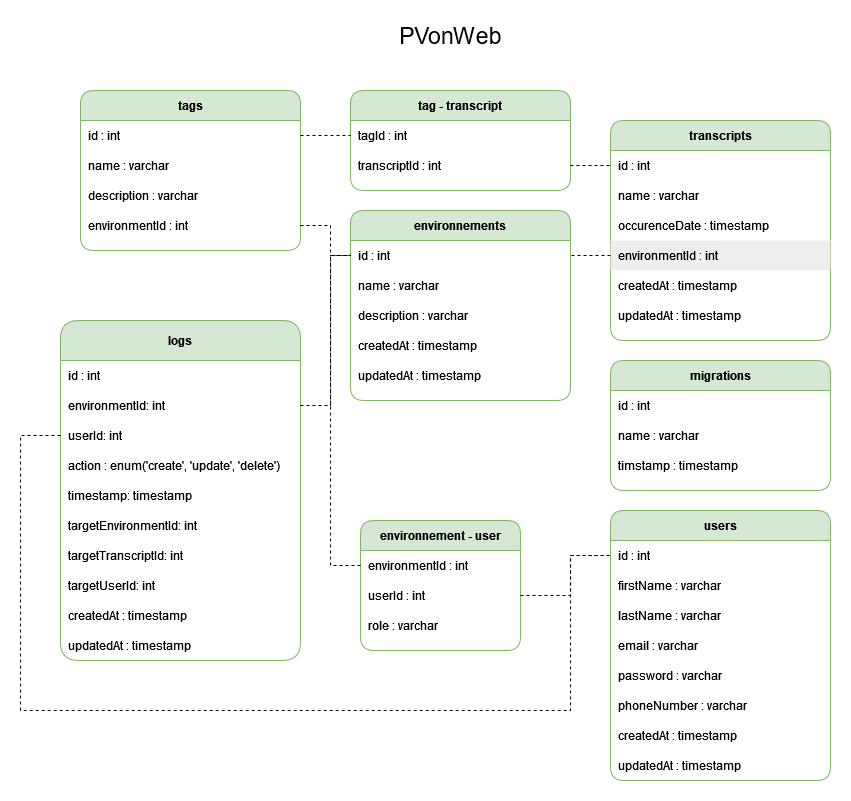
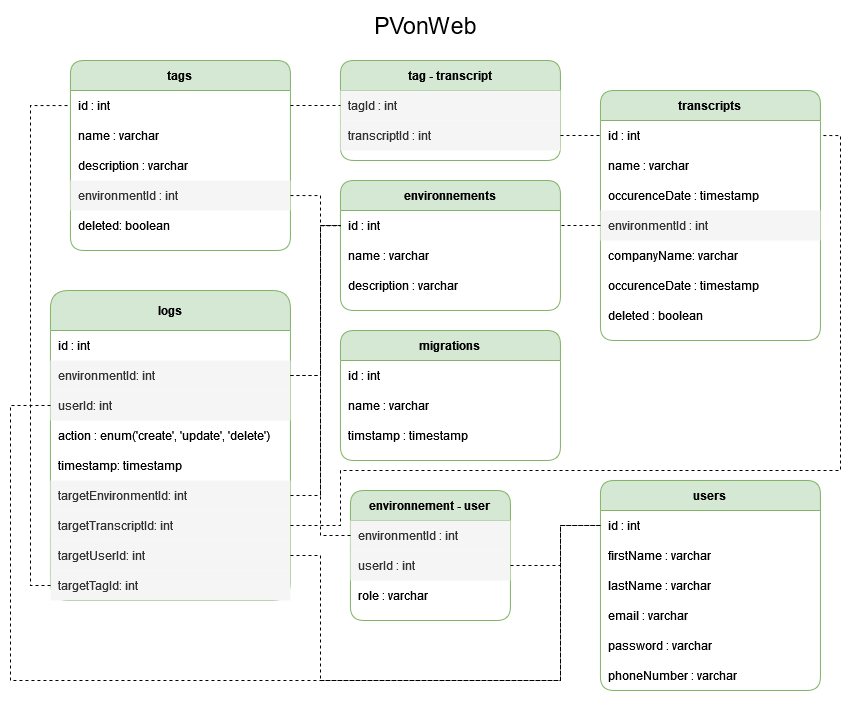
refactor(entity): deleted field

diff --git a/WebApp/backend/controllers/tagController.ts b/WebApp/backend/controllers/tagController.ts
@@ -34,7 +34,7 @@ export const getTagsByEnvironment = async (req: Request, res: Response) => {
 			take: number,
 			where: {
 				environment: environment,
-				isActive: true
+				deleted: false
 			}
 		})
 		res.json(tag)
@@ -71,7 +71,7 @@ export const createTag = async (req: Request, res: Response) => {
 		const tagExists = await tagRepository.findOneBy({
 			name: req.body.name,
 			environment: environment,
-			isActive: true
+			deleted: false
 		})
 
 		if (tagExists)
@@ -121,7 +121,7 @@ export const updateTag = async (req: Request, res: Response) => {
 		const tagExists = await tagRepository.findOneBy({
 			name: req.body.name,
 			environment: environment,
-			isActive: true
+			deleted: false
 		})
 
 
@@ -189,7 +189,7 @@ export const deleteTag = async (req: Request, res: Response) => {
 			transcript.tags = transcript.tags.filter(t => t.id !== tag.id)
 		})
 
-		tag.isActive = false
+		tag.deleted = true
 
 		await tagRepository.save(tag)
 		await transcriptRepository.save(transcripts)

diff --git a/WebApp/backend/controllers/transcriptController.ts b/WebApp/backend/controllers/transcriptController.ts
@@ -17,7 +17,7 @@ export const getTranscriptById = async (req: Request, res: Response) => {
 	try {
 		const transcript = await transcriptRepository.findOneBy({
 			id: req.params.id,
-			isActive: true
+			deleted: false
 		})
 		res.json(transcript)
 	} catch (error) {
@@ -46,7 +46,7 @@ export const getTranscriptByEnvironment = async (req: Request, res: Response) =>
 			take: number,
 			where: {
 				environment: environment,
-				isActive: true
+				deleted: false
 			},
 			relations: ['tags']
 		})
@@ -78,7 +78,7 @@ export const updateTranscript = async (req: Request, res: Response) => {
 
 		const transcript = await transcriptRepository.findOneBy({
 			id: req.params.id,
-			isActive: true
+			deleted: false
 		})
 
 		transcript.name = req.body.name

diff --git a/WebApp/backend/entity/Tag.ts b/WebApp/backend/entity/Tag.ts
@@ -1,5 +1,5 @@
 import { Entity, Column, PrimaryGeneratedColumn, ManyToOne, ManyToMany, JoinTable, Index } from 'typeorm'
-import { Environment, Transcript } from './'
+import { Environment } from './'
 
 @Entity()
 export class Tag {
@@ -12,8 +12,8 @@ export class Tag {
 	@Column({ nullable: true})
 		description: string
 
-	@Column({ default: true })
-		isActive: boolean
+	@Column({ default: false })
+		deleted: boolean
 
 	@ManyToOne(type => Environment, environment => environment.transcripts)
 		environment: Environment

diff --git a/WebApp/backend/entity/Transcript.ts b/WebApp/backend/entity/Transcript.ts
@@ -27,8 +27,8 @@ export class Transcript {
 	@Column({ type: 'timestamp', default: () => 'CURRENT_TIMESTAMP' })
 		occurenceDate: string
 
-	@Column({ default: true })
-		isActive: boolean
+	@Column({ default: false })
+		deleted: boolean
 
 	@ManyToOne(type => Environment, environment => environment.transcripts)
 		environment: Environment
